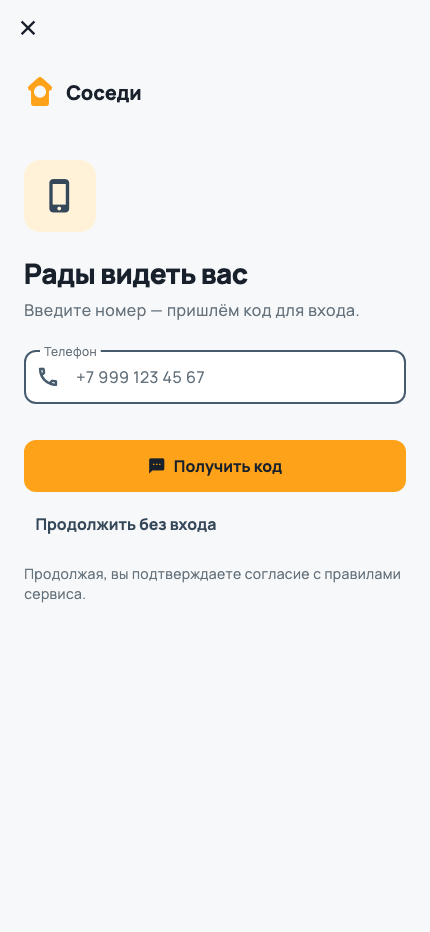
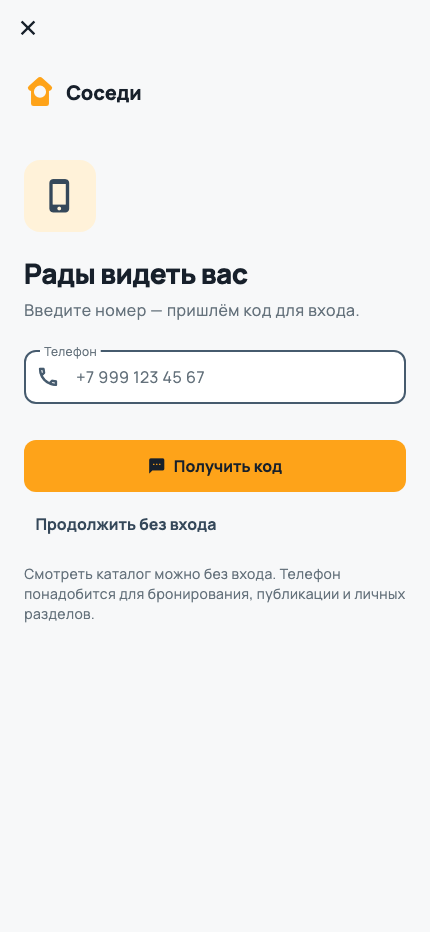
fix(app): keep guest walkthrough truthful

Changed region(s): [[0.0605, 0.5912, 0.9372, 0.6845]]

diff --git a/sosedi-roadmap.html b/sosedi-roadmap.html
@@ -1007,7 +1007,7 @@ button { cursor: pointer; background: none; border: none; font: inherit; color: 
               <div class="tl-item" data-status="done"><svg class="tl-item-check" viewBox="0 0 24 24" fill="none" stroke="var(--color-success)" stroke-width="2.5"><rect x="3" y="3" width="18" height="18" rx="3"/></svg><div>Pre-handover readiness: lender self-attests исправность/комплект/дефекты внутри immutable акта; borrower видит server timestamp и может сразу открыть evidence-backed проблему; заряд скрыт без category rule</div></div>
               <div class="tl-item" data-status="done"><svg class="tl-item-check" viewBox="0 0 24 24" fill="none" stroke="var(--color-success)" stroke-width="2.5"><rect x="3" y="3" width="18" height="18" rx="3"/></svg><div>In-app inbox создаётся вместе с доменным событием; cursor-страницы ограничены 50 событиями, есть серверный фильтр непрочитанных и user-scoped «прочитать всё»; mobile обновляет inbox при resume/pull-to-refresh, push — best-effort сигнал без обязательного WebSocket</div></div>
               <div class="tl-item" data-status="done"><svg class="tl-item-check" viewBox="0 0 24 24" fill="none" stroke="var(--color-success)" stroke-width="2.5"><rect x="3" y="3" width="18" height="18" rx="3"/></svg><div>Приватное избранное: idempotent user-scoped add/remove, повторная проверка public visibility без публичных счётчиков/уведомлений, включение в step-up privacy export и mobile-закладки в каталоге, карточке и профиле</div></div>
-              <div class="tl-item" data-status="done"><svg class="tl-item-check" viewBox="0 0 24 24" fill="none" stroke="var(--color-success)" stroke-width="2.5"><rect x="3" y="3" width="18" height="18" rx="3"/></svg><div>Визуальная карта приложения связывает все 29 актуальных Flutter route screenshots в borrower/lender, support, profile/privacy и system-gate пути; map/payment demo явно помечены как непродуктивные</div></div>
+              <div class="tl-item" data-status="done"><svg class="tl-item-check" viewBox="0 0 24 24" fill="none" stroke="var(--color-success)" stroke-width="2.5"><rect x="3" y="3" width="18" height="18" rx="3"/></svg><div>Визуальная карта приложения связывает 31 актуальный Flutter route/state screenshot, включая все три onboarding-состояния, в borrower/lender, support, profile/privacy и system-gate пути; map/payment demo явно помечены как непродуктивные</div></div>
               <div class="tl-item" data-status="done"><svg class="tl-item-check" viewBox="0 0 24 24" fill="none" stroke="var(--color-success)" stroke-width="2.5"><rect x="3" y="3" width="18" height="18" rx="3"/></svg><div>Chat lifecycle: один диалог на Booking, write в PENDING/CONFIRMED/ACTIVE/RETURNED, terminal read-only; block отменяет PENDING либо закрывает только user text активной аренды</div></div>
               <div class="tl-item" data-status="done"><svg class="tl-item-check" viewBox="0 0 24 24" fill="none" stroke="var(--color-success)" stroke-width="2.5"><rect x="3" y="3" width="18" height="18" rx="3"/></svg><div>Booking Message + REST: participant-only list/send, keyset cursor, stable client UUID, idempotent outbox и redacted self-export/account deletion contract</div></div>
               <div class="tl-item" data-status="done"><svg class="tl-item-check" viewBox="0 0 24 24" fill="none" stroke="var(--color-success)" stroke-width="2.5"><rect x="3" y="3" width="18" height="18" rx="3"/></svg><div>Text-only abuse boundary: 1–2000 символов, unsafe controls/media запрещены, caps 20/Booking/min и 60/actor/min; body отсутствует в URL/log/outbox/push</div></div>

diff --git a/docs/app-user-paths.html b/docs/app-user-paths.html
@@ -551,12 +551,50 @@
               /></a>
               <figcaption>
                 <div class="caption-top">
-                  <span class="step">01 · старт</span
+                  <span class="step">01.1 · смысл</span
                   ><span class="kind ready">готово</span>
                 </div>
-                <h3>Onboarding</h3>
+                <h3>Зачем арендовать</h3>
                 <span class="route">/onboarding</span>
-                <p>Коротко объясняет P2P-аренду и обе пользовательские роли.</p>
+                <p>Объясняет основную пользу аренды вещей у соседей.</p>
+              </figcaption>
+            </div>
+          </figure>
+          <figure class="screen">
+            <div class="screen-card">
+              <a href="screenshots/01b-onboarding-trust.png"
+                ><img
+                  loading="lazy"
+                  src="screenshots/01b-onboarding-trust.png"
+                  alt="Второй слайд onboarding о доверии"
+              /></a>
+              <figcaption>
+                <div class="caption-top">
+                  <span class="step">01.2 · доверие</span
+                  ><span class="kind ready">готово</span>
+                </div>
+                <h3>Понятные правила</h3>
+                <span class="route">/onboarding · slide 2</span>
+                <p>Показывает роль профилей, модерации и правил аренды.</p>
+              </figcaption>
+            </div>
+          </figure>
+          <figure class="screen">
+            <div class="screen-card">
+              <a href="screenshots/01c-onboarding-search.png"
+                ><img
+                  loading="lazy"
+                  src="screenshots/01c-onboarding-search.png"
+                  alt="Третий слайд onboarding о поиске вещей"
+              /></a>
+              <figcaption>
+                <div class="caption-top">
+                  <span class="step">01.3 · поиск</span
+                  ><span class="kind ready">готово</span>
+                </div>
+                <h3>Каталог рядом</h3>
+                <span class="route">/onboarding · slide 3</span>
+                <p>Завершает знакомство переходом в гостевой каталог.</p>
               </figcaption>
             </div>
           </figure>

diff --git a/mobile/tool/capture_client_screenshots_test.dart b/mobile/tool/capture_client_screenshots_test.dart
@@ -81,6 +81,24 @@ void main() {
 
   _screenshot('01-onboarding.png', () => _scope(const OnboardingScreen()));
   _screenshot(
+    '01b-onboarding-trust.png',
+    () => _scope(const OnboardingScreen()),
+    prepare: (tester) async {
+      await tester.tap(find.text('Далее'));
+      await tester.pumpAndSettle();
+    },
+  );
+  _screenshot(
+    '01c-onboarding-search.png',
+    () => _scope(const OnboardingScreen()),
+    prepare: (tester) async {
+      await tester.tap(find.text('Далее'));
+      await tester.pumpAndSettle();
+      await tester.tap(find.text('Далее'));
+      await tester.pumpAndSettle();
+    },
+  );
+  _screenshot(
     '02-phone-login.png',
     () => _scope(
       const PhoneScreen(),
@@ -849,7 +867,7 @@ final _profile = UserProfile(
   city: 'Москва',
   avatarUrl: null,
   role: 'USER',
-  kycStatus: 'VERIFIED',
+  kycStatus: null,
   isBlocked: false,
   createdAt: DateTime.utc(2026, 7, 1),
   updatedAt: DateTime.utc(2026, 8, 20),
@@ -894,15 +912,8 @@ final _supportTicket = SupportTicket(
 
 final _supportMessages = [
   SupportMessage(
-    id: 'support-message-1',
-    authorRole: 'USER',
-    body: 'Как изменить время передачи вещи?',
-    attachments: const [],
-    createdAt: DateTime.utc(2026, 8, 20, 18),
-  ),
-  SupportMessage(
     id: 'support-message-2',
-    authorRole: 'ADMIN',
+    authorRole: 'SUPPORT',
     body: 'Откройте бронирование и напишите владельцу в чате.',
     attachments: const [],
     createdAt: DateTime.utc(2026, 8, 21, 8),

diff --git a/mobile/test/features/auth/auth_screens_test.dart b/mobile/test/features/auth/auth_screens_test.dart
@@ -9,6 +9,19 @@ import 'package:mobile/features/auth/presentation/otp_screen.dart';
 import 'package:mobile/features/auth/presentation/phone_screen.dart';
 
 void main() {
+  testWidgets('keeps guest browsing separate from unpublished rules', (
+    tester,
+  ) async {
+    final controller = _ScreenAuthController(const AuthState.unauthenticated());
+    await _pumpScreen(tester, controller, const PhoneScreen());
+
+    expect(
+      find.textContaining('Смотреть каталог можно без входа'),
+      findsOneWidget,
+    );
+    expect(find.textContaining('согласие с правилами'), findsNothing);
+  });
+
   testWidgets('does not request OTP for an invalid phone', (tester) async {
     final controller = _ScreenAuthController(const AuthState.unauthenticated());
     await _pumpScreen(tester, controller, const PhoneScreen());

diff --git a/mobile/lib/features/auth/presentation/phone_screen.dart b/mobile/lib/features/auth/presentation/phone_screen.dart
@@ -121,7 +121,8 @@ class _PhoneScreenState extends ConsumerState<PhoneScreen> {
                 ),
                 const SizedBox(height: 16),
                 Text(
-                  'Продолжая, вы подтверждаете согласие с правилами сервиса.',
+                  'Смотреть каталог можно без входа. Телефон понадобится для '
+                  'бронирования, публикации и личных разделов.',
                   style: Theme.of(context).textTheme.bodySmall,
                 ),
               ],

diff --git a/MVP_CHECKLIST.md b/MVP_CHECKLIST.md
@@ -1048,8 +1048,9 @@ MapKit, геолокацию или точный адрес и всегда ск
   и authorization e2e прошли.
 - [x] Поддерживать визуальную карту Flutter-приложения с актуальными
   screenshot-путями borrower/lender, профиля, поддержки и системных gates.
-  **DONE 30.08.2026:** `docs/app-user-paths.html` связывает все 29 реальных
-  route screenshots, а локальные map/payment demo явно отделены от production.
+  **DONE 30.08.2026:** `docs/app-user-paths.html` связывает 31 реальное
+  route/state screenshot, а локальные map/payment demo явно отделены от
+  production. Все три onboarding-состояния показаны отдельно.
 - [x] Подтверждать только одну из конкурентных заявок; остальные пересекающиеся
   заявки переводить в заранее утверждённое состояние/причину.
 - [x] Создавать бронирование в статусе `PENDING`.
@@ -1830,7 +1831,7 @@ Fake provider и доменные TDD-тесты не блокируются.
 
 **LOCAL HARNESS 30.08.2026:** `make pilot-seed` идемпотентно создаёт только
 синтетические fixtures после opt-in и loopback guard. `make pilot-smoke`
-выполняет `make check`, все backend e2e, 29 Flutter screenshot-тестов, проверку
+выполняет `make check`, все backend e2e, 31 Flutter screenshot-тест, проверку
 карты user paths и всегда очищает test-инфраструктуру. Это не закрывает реальные
 store/provider/device проверки ниже.
 

diff --git a/docs/closed-pilot-playbook.md b/docs/closed-pilot-playbook.md
@@ -11,7 +11,7 @@
 - guarded fixture seed без удаления существующих данных;
 - бронирования, чат, акты, inbox, support, moderation и reviews проверяются
   автоматическими unit/widget/e2e-тестами;
-- 29 screenshot-экранов связаны в `docs/app-user-paths.html`;
+- 31 screenshot-состояние связано в `docs/app-user-paths.html`;
 - одна команда запускает полный локальный pilot smoke и всегда выключает
   изолированные test-контейнеры.
 
@@ -91,7 +91,7 @@ make pilot-smoke
 
 1. `make check`;
 2. все backend e2e против отдельной `sosedi_test` БД и Redis DB 15;
-3. регенерацию 29 route screenshots;
+3. регенерацию 31 route/state screenshot;
 4. проверку всех ссылок `docs/app-user-paths.html`;
 5. `make test-infra-down` даже после ошибки предыдущего этапа.
 
